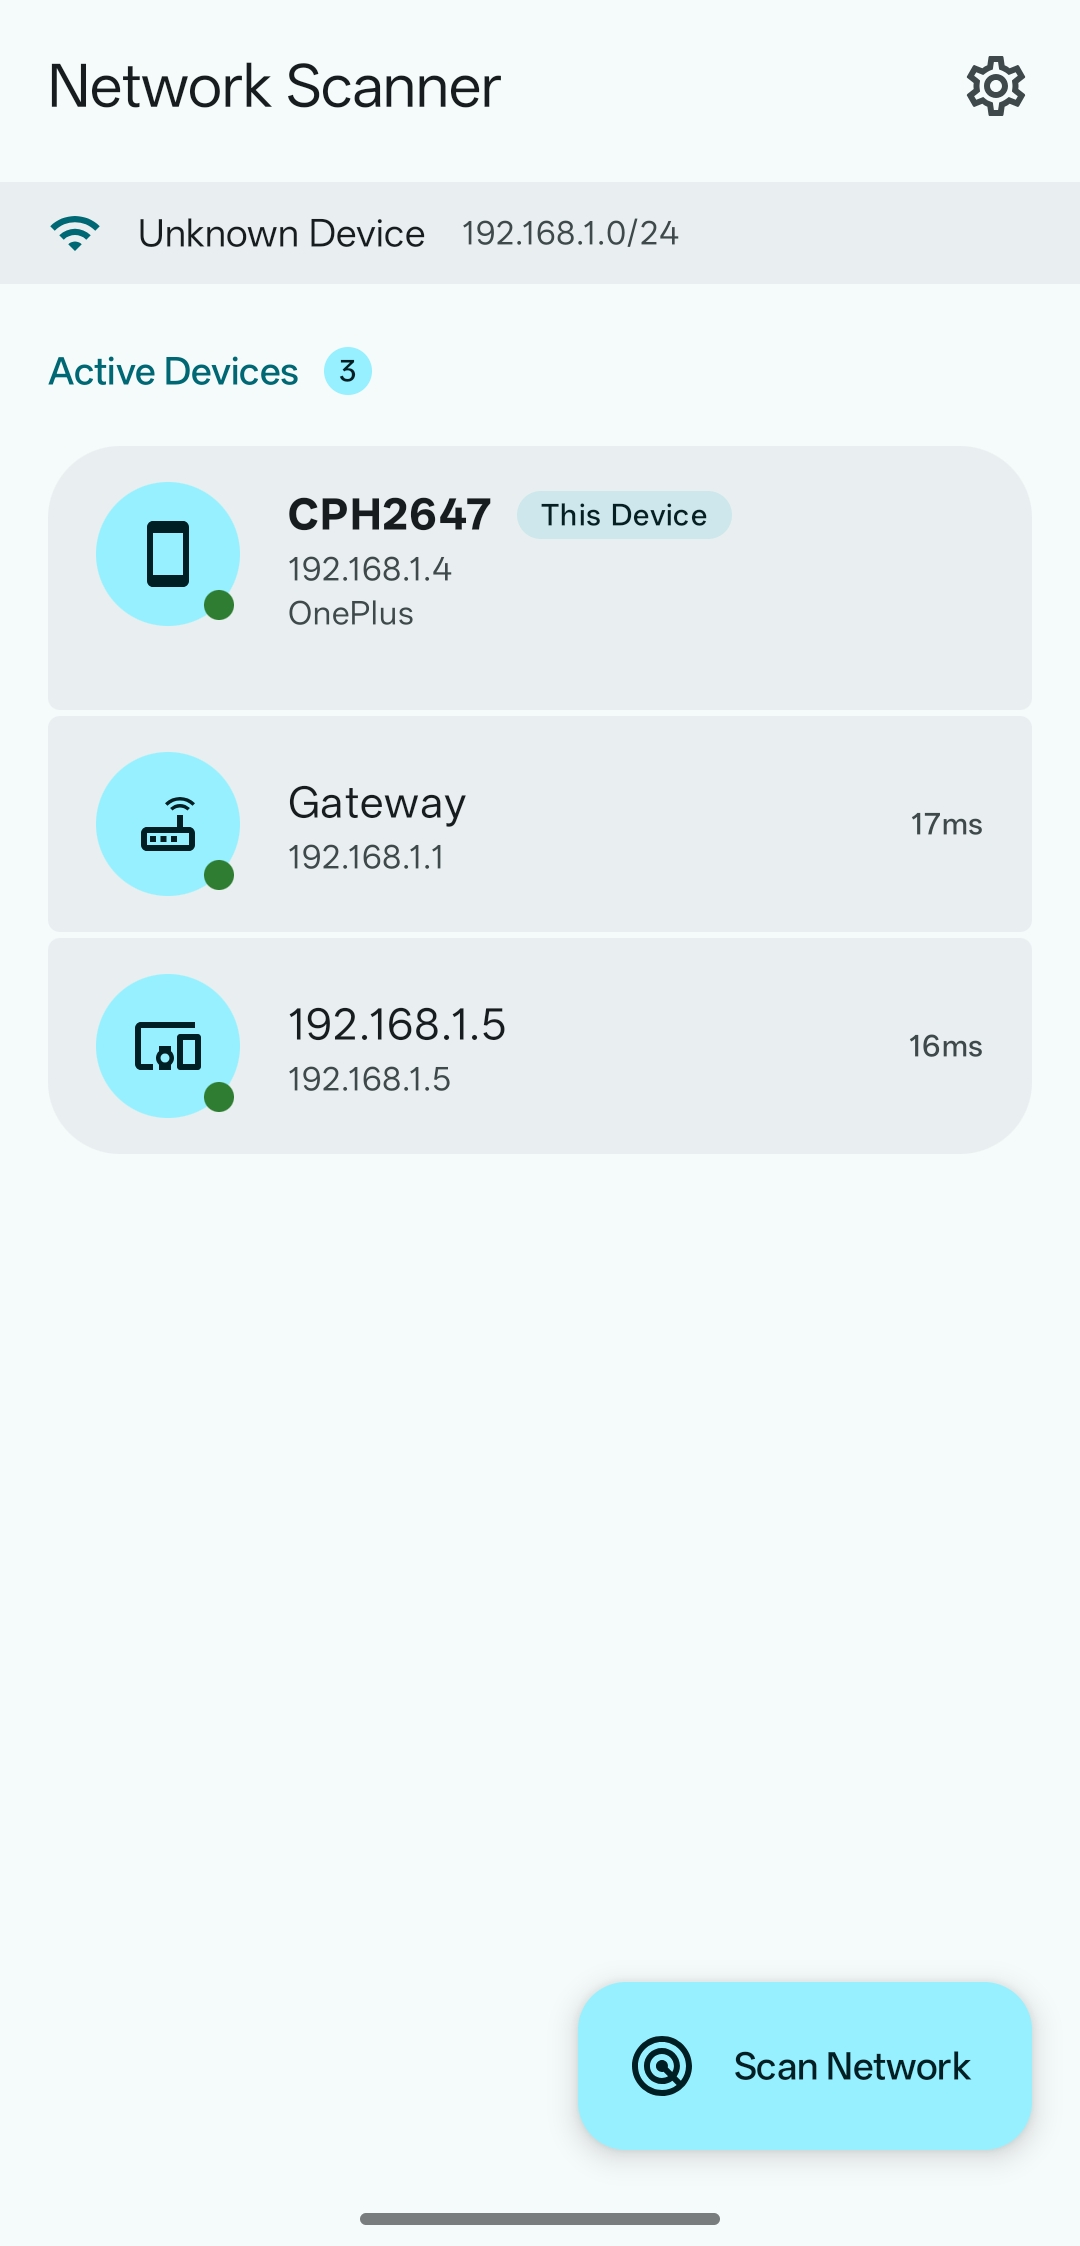
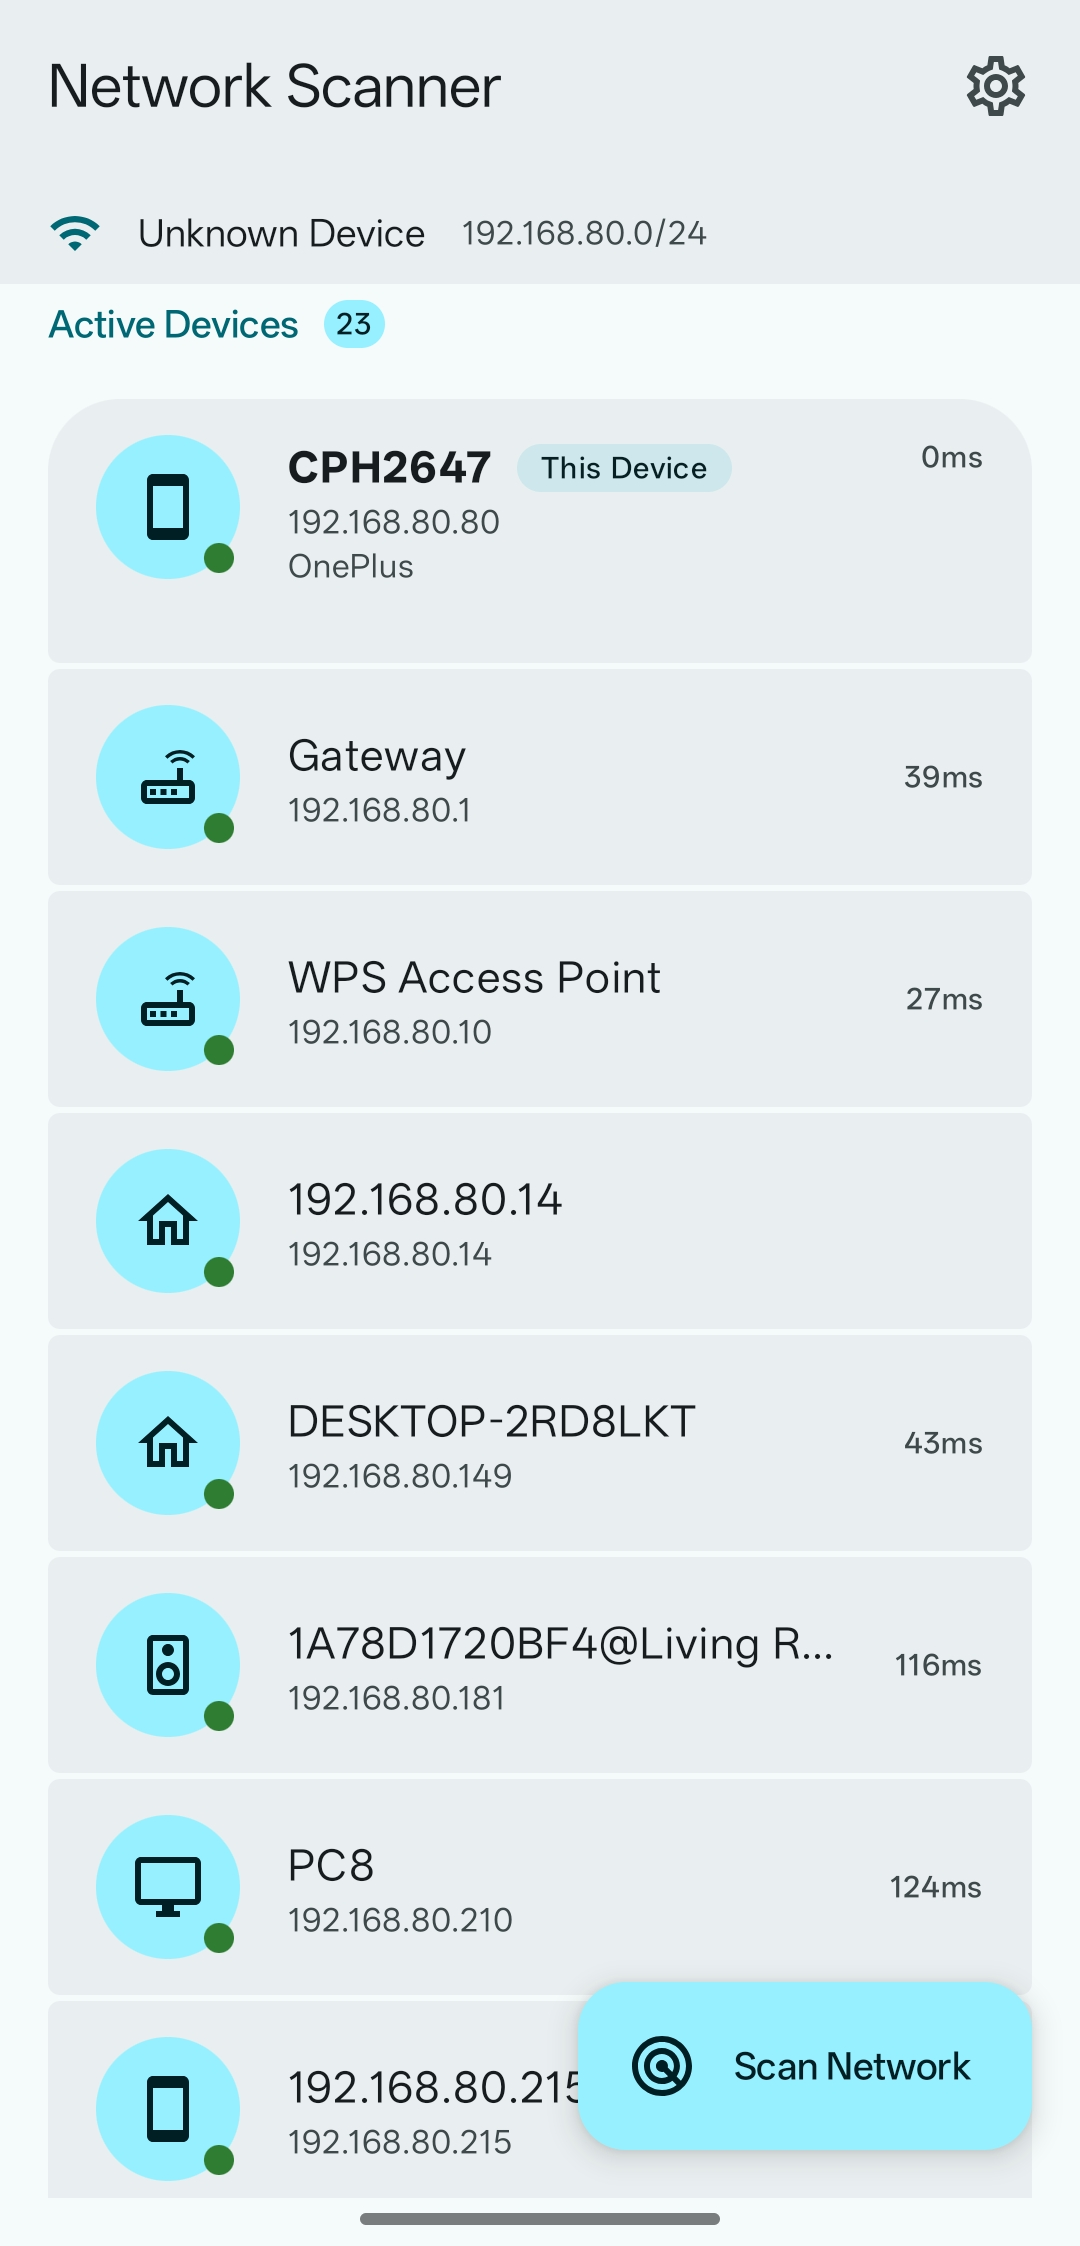
update readme and screenshots

diff --git a/README.md b/README.md
@@ -15,12 +15,17 @@ A fast, privacy-focused network scanner for Android that helps you discover and 
 - 🔌 **Port Heuristics** - Identifies Cast-enabled TVs and other devices via targeted port probes when other methods come up empty
 
 ### Device Information
-- 🏷 **MAC Address & Vendor** - Shows MAC address with OUI vendor lookup
+- 🏷 **MAC Address & Vendor** - Shows MAC address with OUI vendor lookup, including detection of randomized (private) MAC addresses
 - 🖥 **OS Fingerprinting** - Detects Windows, Linux, macOS, router firmware, and printer OS from open ports and banners
 - 📱 **Device Type Icons** - Automatically identifies smartphones, laptops, desktops, TVs, routers, printers, NAS, and more
 - 🔓 **Deep Port Scan** - Scans common ports, grabs service banners, and extracts software versions
+- 🧩 **Full Port Scan** - Optional sweep of all 65,535 ports via a fast worker pool
+- ⚙ **Configurable Ports** - Customize which ports are probed during scans
 
 ### App
+- 🏷 **Custom Devices** - Rename devices and assign your own icons for easy identification
+- 📶 **Interface Selection** - Choose which network interface to scan (Wi-Fi, Ethernet, VPN)
+- 🌍 **Multilingual** - Available in English and Russian
 - 🎨 **Material Design 3** - Modern interface following latest design guidelines
 - 🔒 **Privacy First** - No ads, no tracking, no analytics
 - 🚀 **Lightweight** - Minimal permissions, efficient battery usage
@@ -65,7 +70,7 @@ Network Scanner requests only essential permissions:
 ### Prerequisites
 - Android Studio Hedgehog (2023.1.1) or later
 - JDK 17
-- Android SDK with API level 34
+- Android SDK with API level 35
 
 ### Build Steps
 
@@ -87,7 +92,8 @@ cd network-scanner
 1. Open the app and grant necessary permissions
 2. Tap the scan button to discover devices
 3. Tap any device to view detailed information
-4. Use the deep scan option for port scanning
+4. Use the deep scan option for port scanning, or run a full port scan for all 65,535 ports
+5. Rename devices or assign custom icons to keep track of your network
 
 ## Contributing
 
